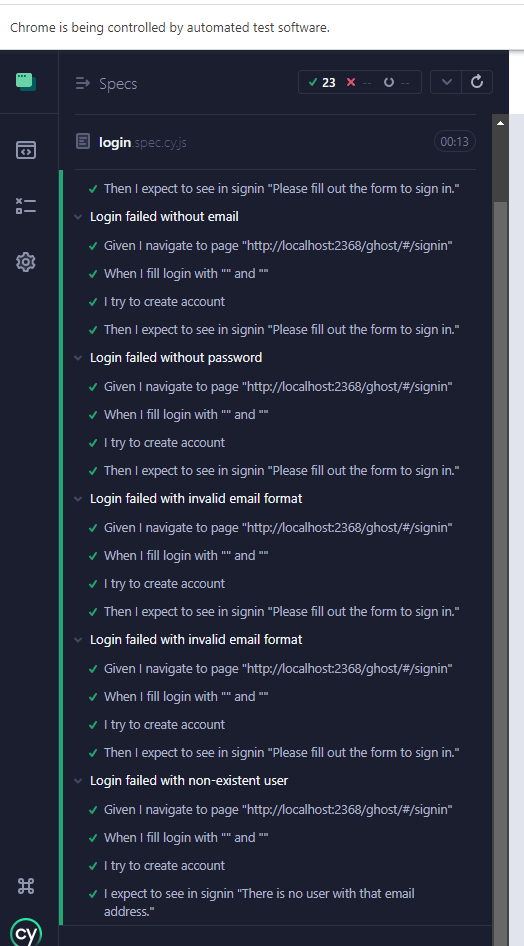
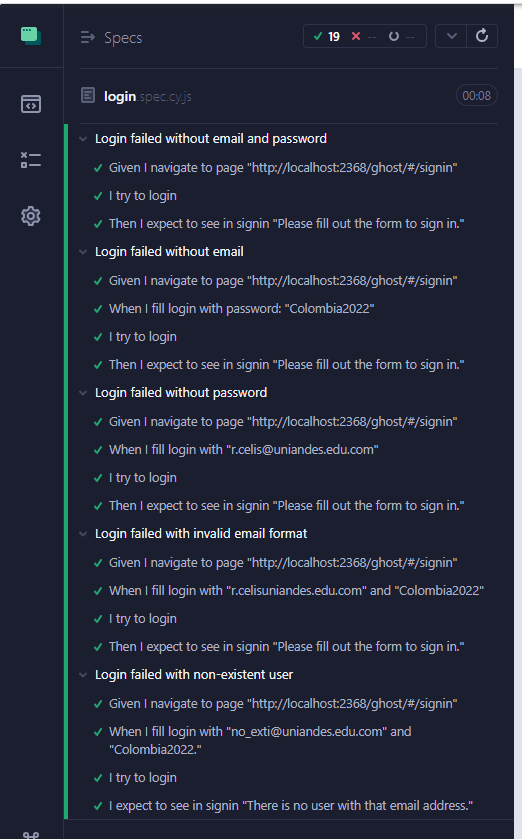
Pruebas login

Changed region(s): [[0.0, 0.0, 1.0, 1.0], [0.3372, 0.093, 0.3678, 0.124]]

diff --git a/cypress/e2e/login.spec.cy.js b/cypress/e2e/login.spec.cy.js
@@ -4,7 +4,7 @@ describe('Login failed without email and password', () => {
     cy.visit('http://localhost:2368/ghost/#/signin')
   })
 
-  it('I try to create account', () => {
+  it('I try to login', () => {
     cy.get('#ember10').click()
   })
 
@@ -22,11 +22,11 @@ describe('Login failed without email', () => {
     cy.visit('http://localhost:2368/ghost/#/signin')
   })
 
-  it('When I fill login with "" and ""', () => {
+  it('When I fill login with password: "Colombia2022"', () => {
     cy.get('#ember8').type('Colombia2022.')
   })
 
-  it('I try to create account', () => {
+  it('I try to login', () => {
     cy.get('#ember10').click()
   })
 
@@ -45,11 +45,11 @@ describe('Login failed without password', () => {
     cy.visit('http://localhost:2368/ghost/#/signin')
   })
 
-  it('When I fill login with "" and ""', () => {
+  it('When I fill login with "r.celis@uniandes.edu.com"', () => {
     cy.get('#ember6').type('r.celis@uniandes.edu.com')
   })
 
-  it('I try to create account', () => {
+  it('I try to login', () => {
     cy.get('#ember10').click()
   })
 
@@ -67,36 +67,12 @@ describe('Login failed with invalid email format', () => {
     cy.visit('http://localhost:2368/ghost/#/signin')
   })
 
-  it('When I fill login with "" and ""', () => {
+  it('When I fill login with "r.celisuniandes.edu.com" and "Colombia2022"', () => {
     cy.get('#ember6').type('r.celisuniandes.edu.com')
     cy.get('#ember8').type('Colombia2022.')
   })
 
-  it('I try to create account', () => {
-    cy.get('#ember10').click()
-  })
-
-  it('Then I expect to see in signin "Please fill out the form to sign in."', async () => {
-    cy.get('.main-error').should(($elements) => {
-      let text = $elements.text
-      expect(text).to.match('Please fill out the form to sign in.');
-    });
-  })
-
-})
-
-// Scenario 4 : Login failed with invalid email format
-describe('Login failed with invalid email format', () => {
-  it('Given I navigate to page "http://localhost:2368/ghost/#/signin"', () => {
-    cy.visit('http://localhost:2368/ghost/#/signin')
-  })
-
-  it('When I fill login with "" and ""', () => {
-    cy.get('#ember6').type('r.celisuniandes.edu.com')
-    cy.get('#ember8').type('Colombia2022.')
-  })
-
-  it('I try to create account', () => {
+  it('I try to login', () => {
     cy.get('#ember10').click()
   })
 
@@ -115,12 +91,12 @@ describe('Login failed with non-existent user', () => {
     cy.visit('http://localhost:2368/ghost/#/signin')
   })
 
-  it('When I fill login with "" and ""', () => {
+  it('When I fill login with "no_exti@uniandes.edu.com" and "Colombia2022."', () => {
     cy.get('#ember6').type('no_exti@uniandes.edu.com')
     cy.get('#ember8').type('Colombia2022.')
   })
 
-  it('I try to create account', () => {
+  it('I try to login', () => {
     cy.get('#ember10').click()
   })
 
